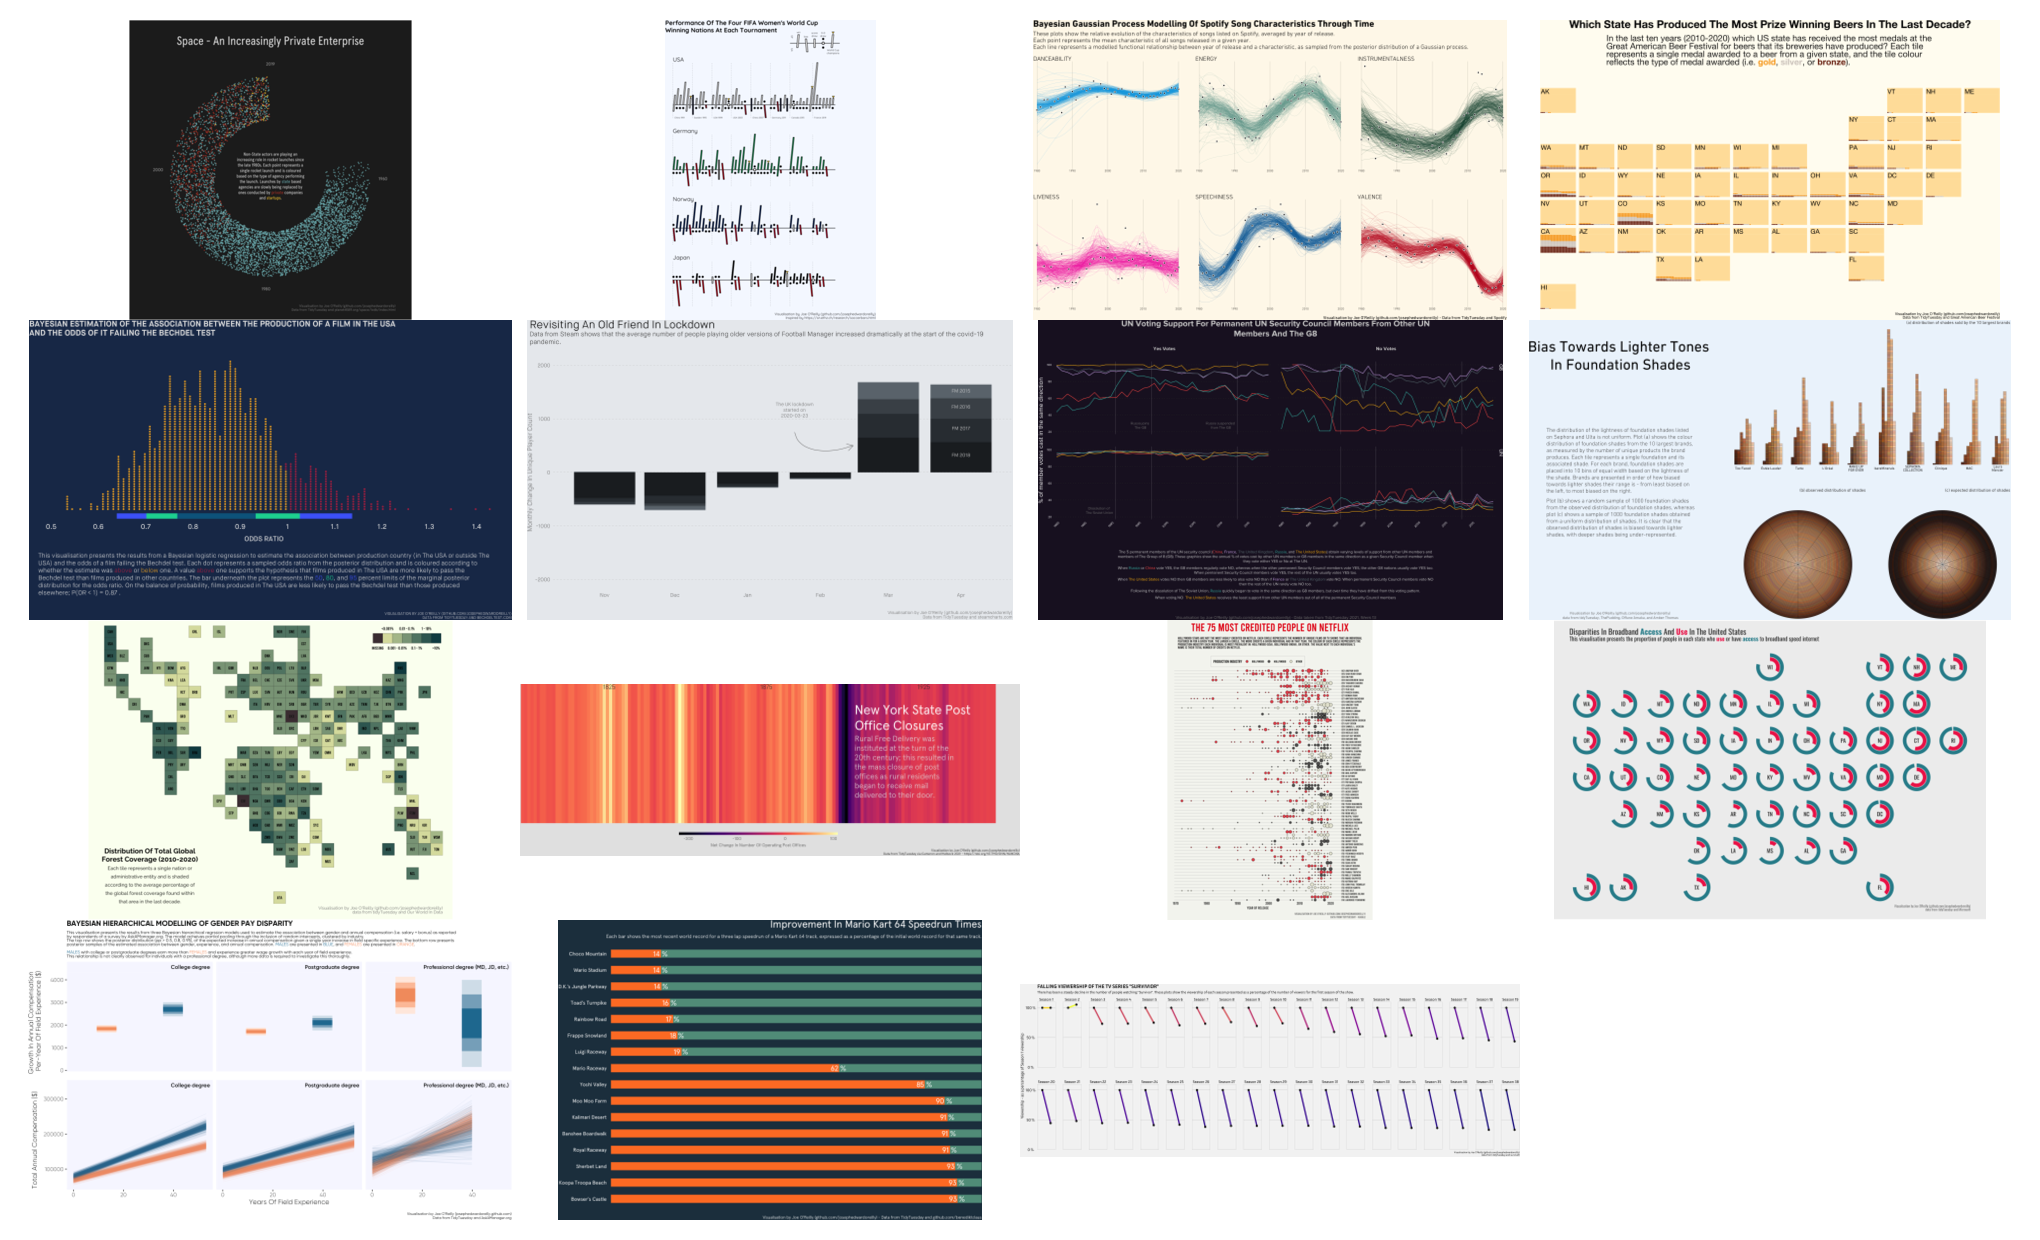
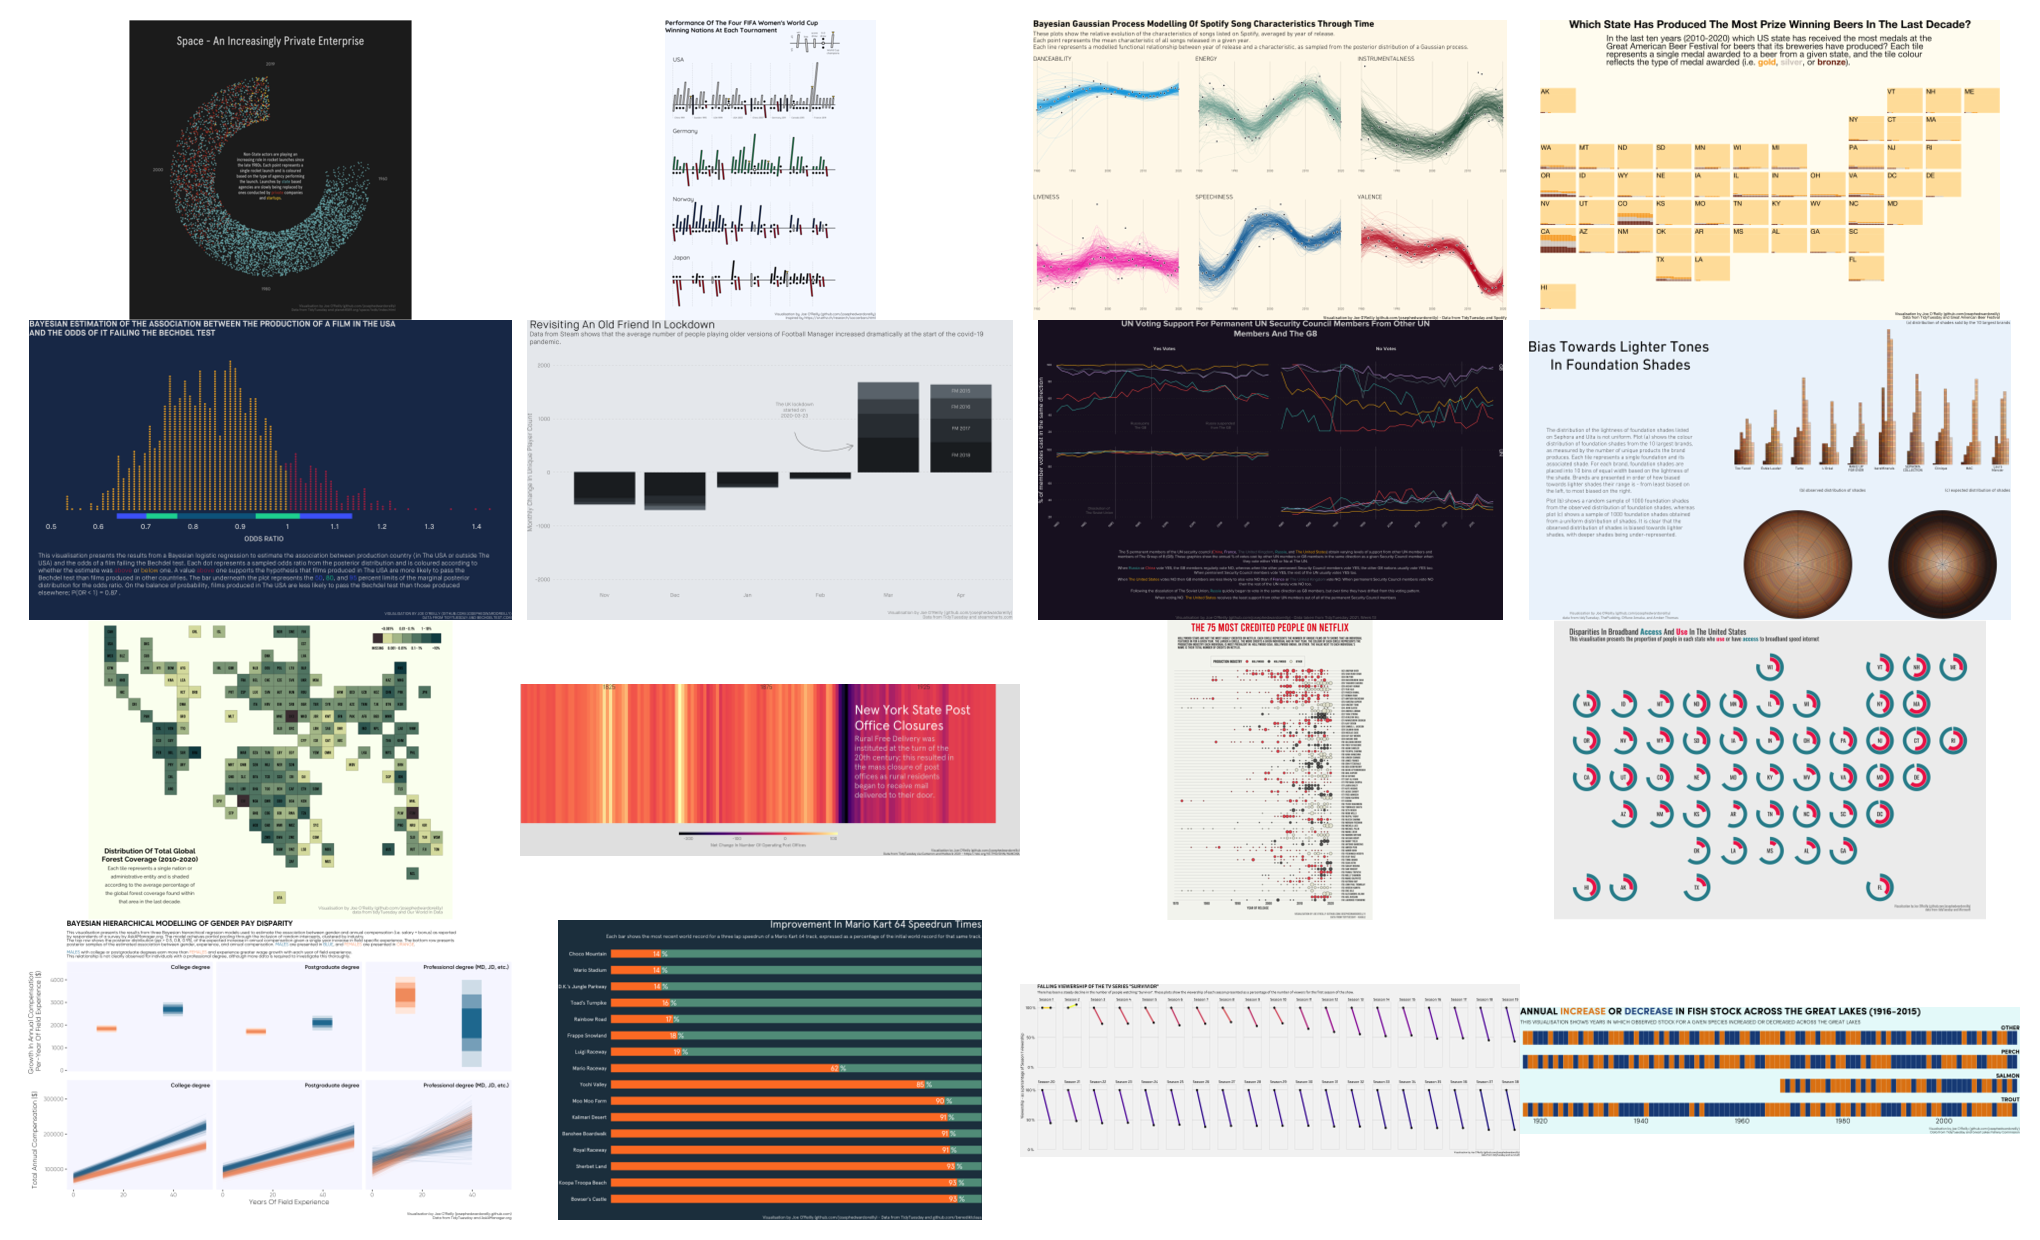
Added code/plot for fish, updated collage and readme

Changed region(s): [[0.7412, 0.7968, 1.0, 0.9194]]

diff --git a/README.md b/README.md
@@ -9,6 +9,11 @@ Some TidyTuesday plots I have created. All are made in R with ggplot2 and relate
 
 ***
 
+### [2021-06-08](https://github.com/josephedwardoreilly/TidyTuesday/blob/master/src/tt_Fish.R)  Fish 
+![./plots/2021-06-01.png](https://raw.githubusercontent.com/josephedwardoreilly/TidyTuesday/master/plots/2021-06-08.png)
+
+***
+
 ### [2021-06-01](https://github.com/josephedwardoreilly/TidyTuesday/blob/master/src/tt_Survivor.R)  Survivior 
 ![./plots/2021-06-01.png](https://raw.githubusercontent.com/josephedwardoreilly/TidyTuesday/master/plots/2021-06-01.png)
 
